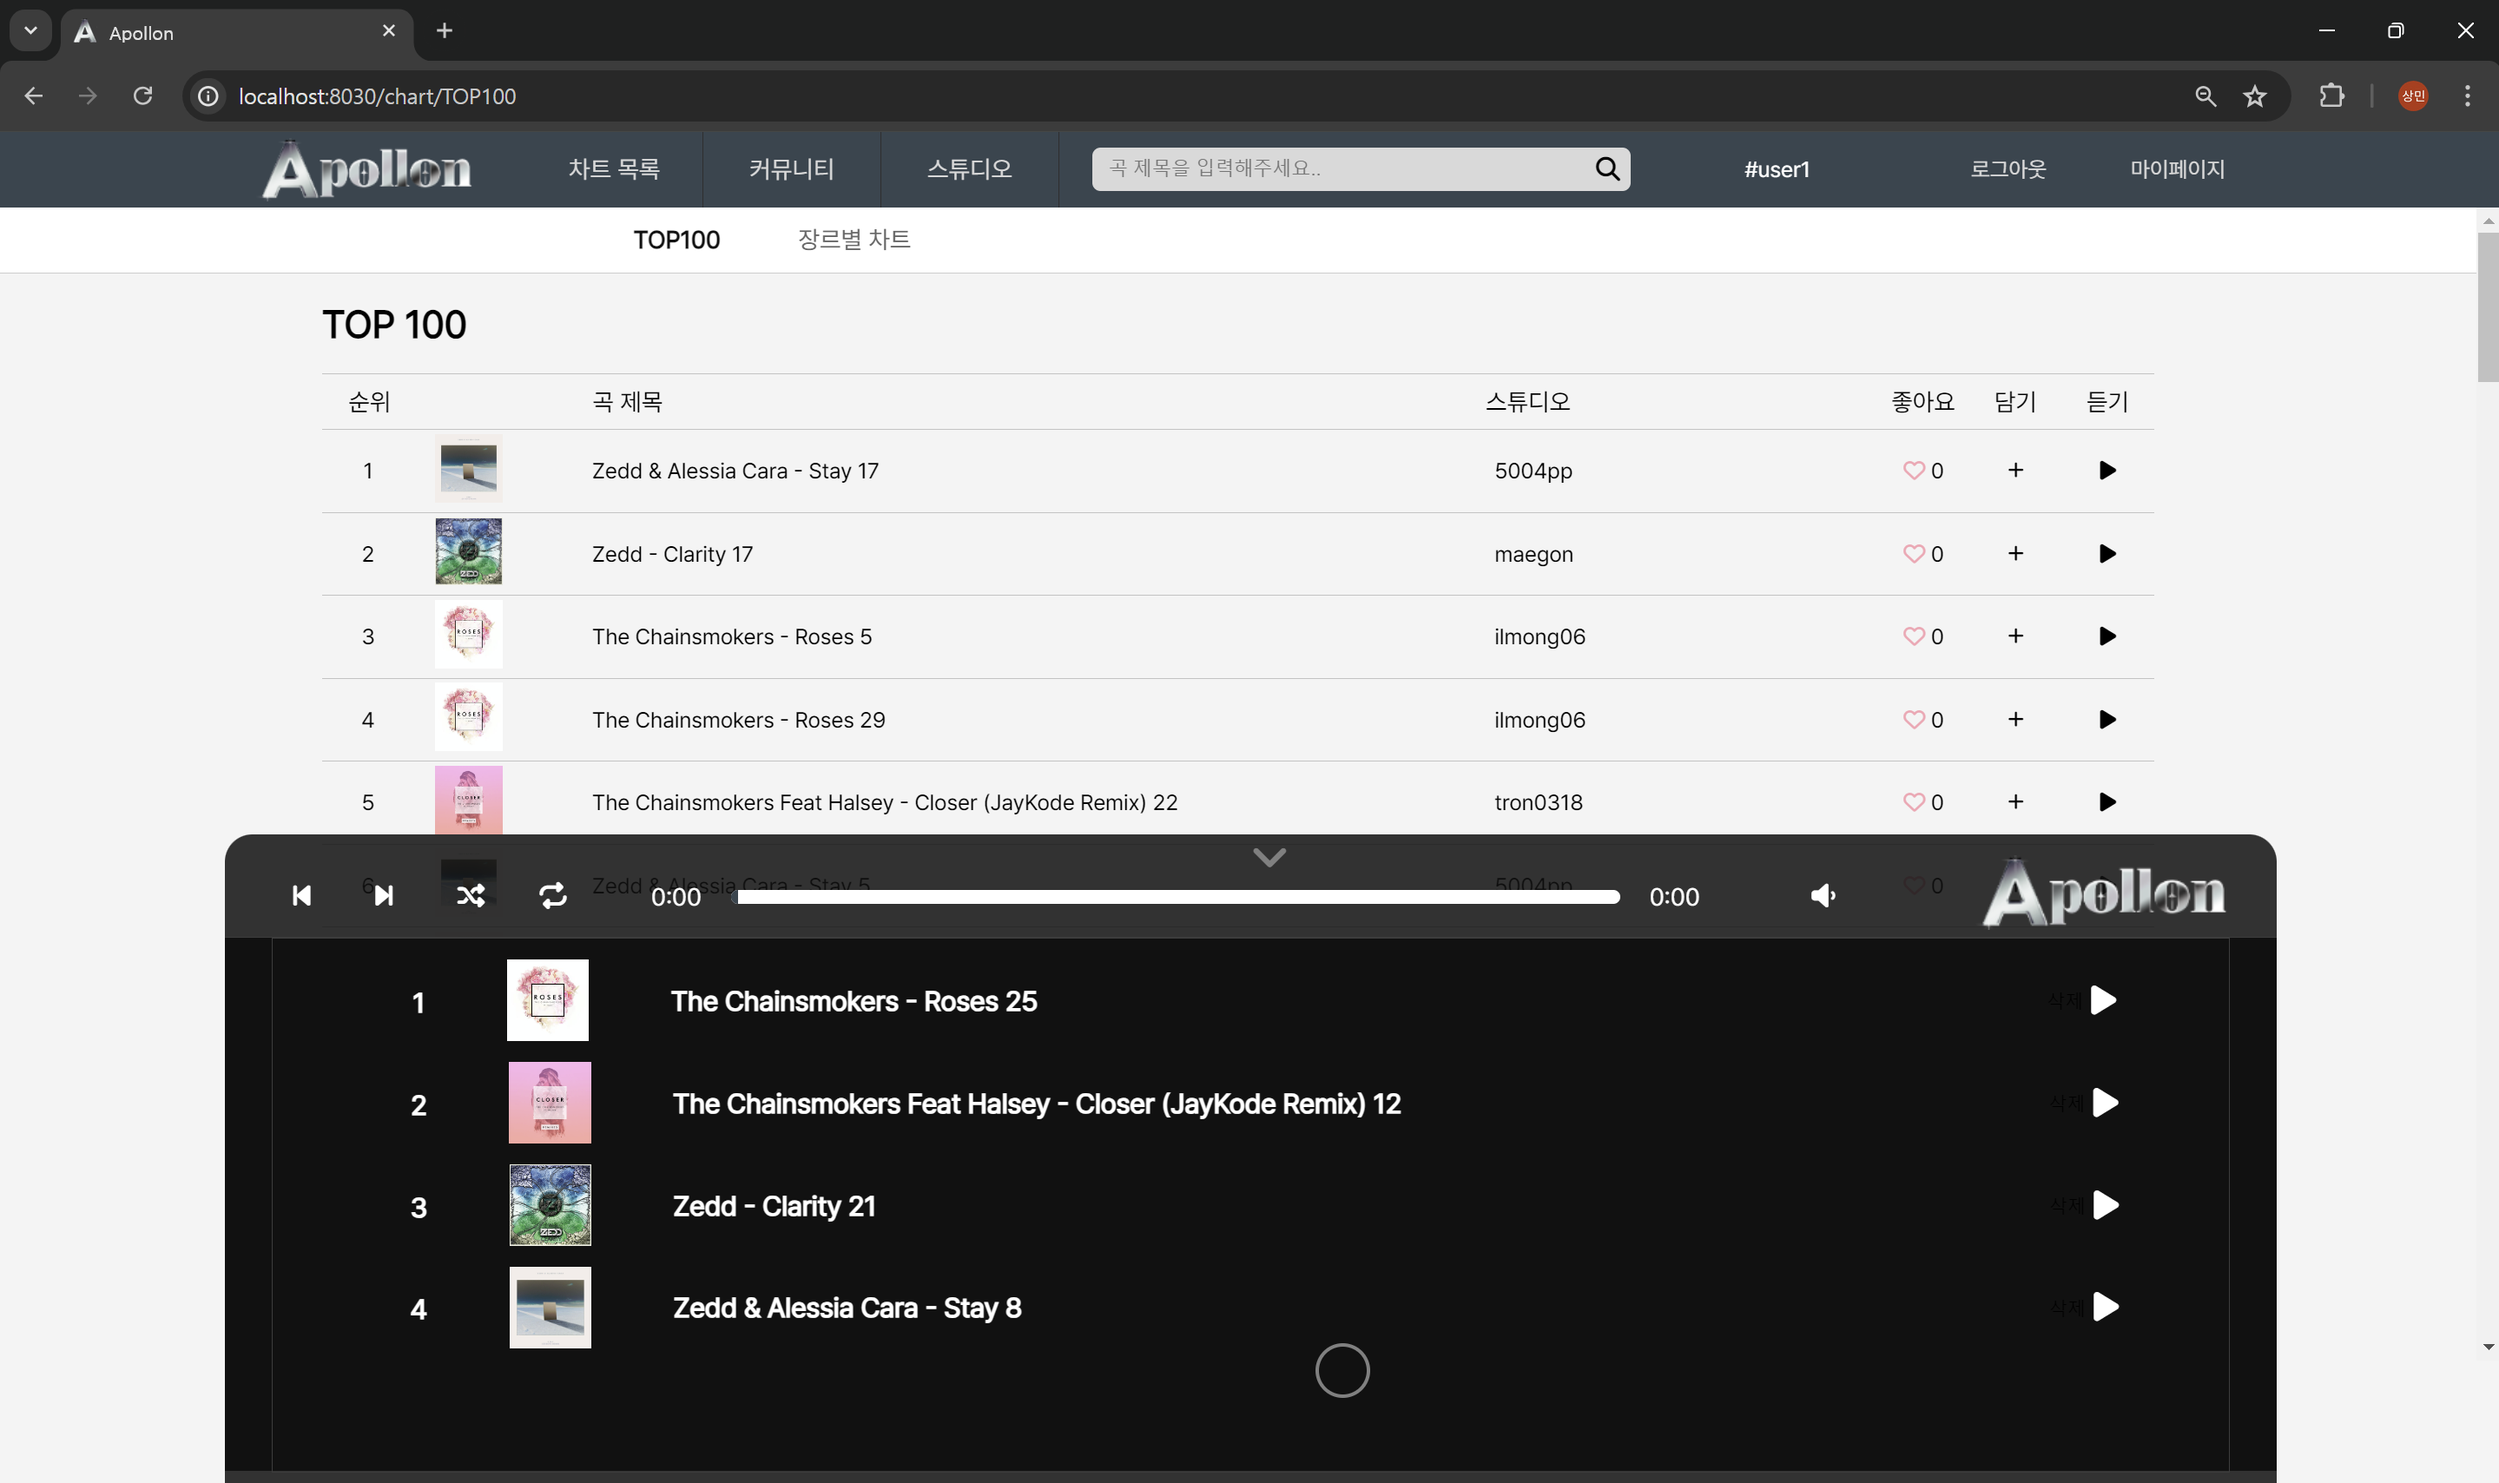
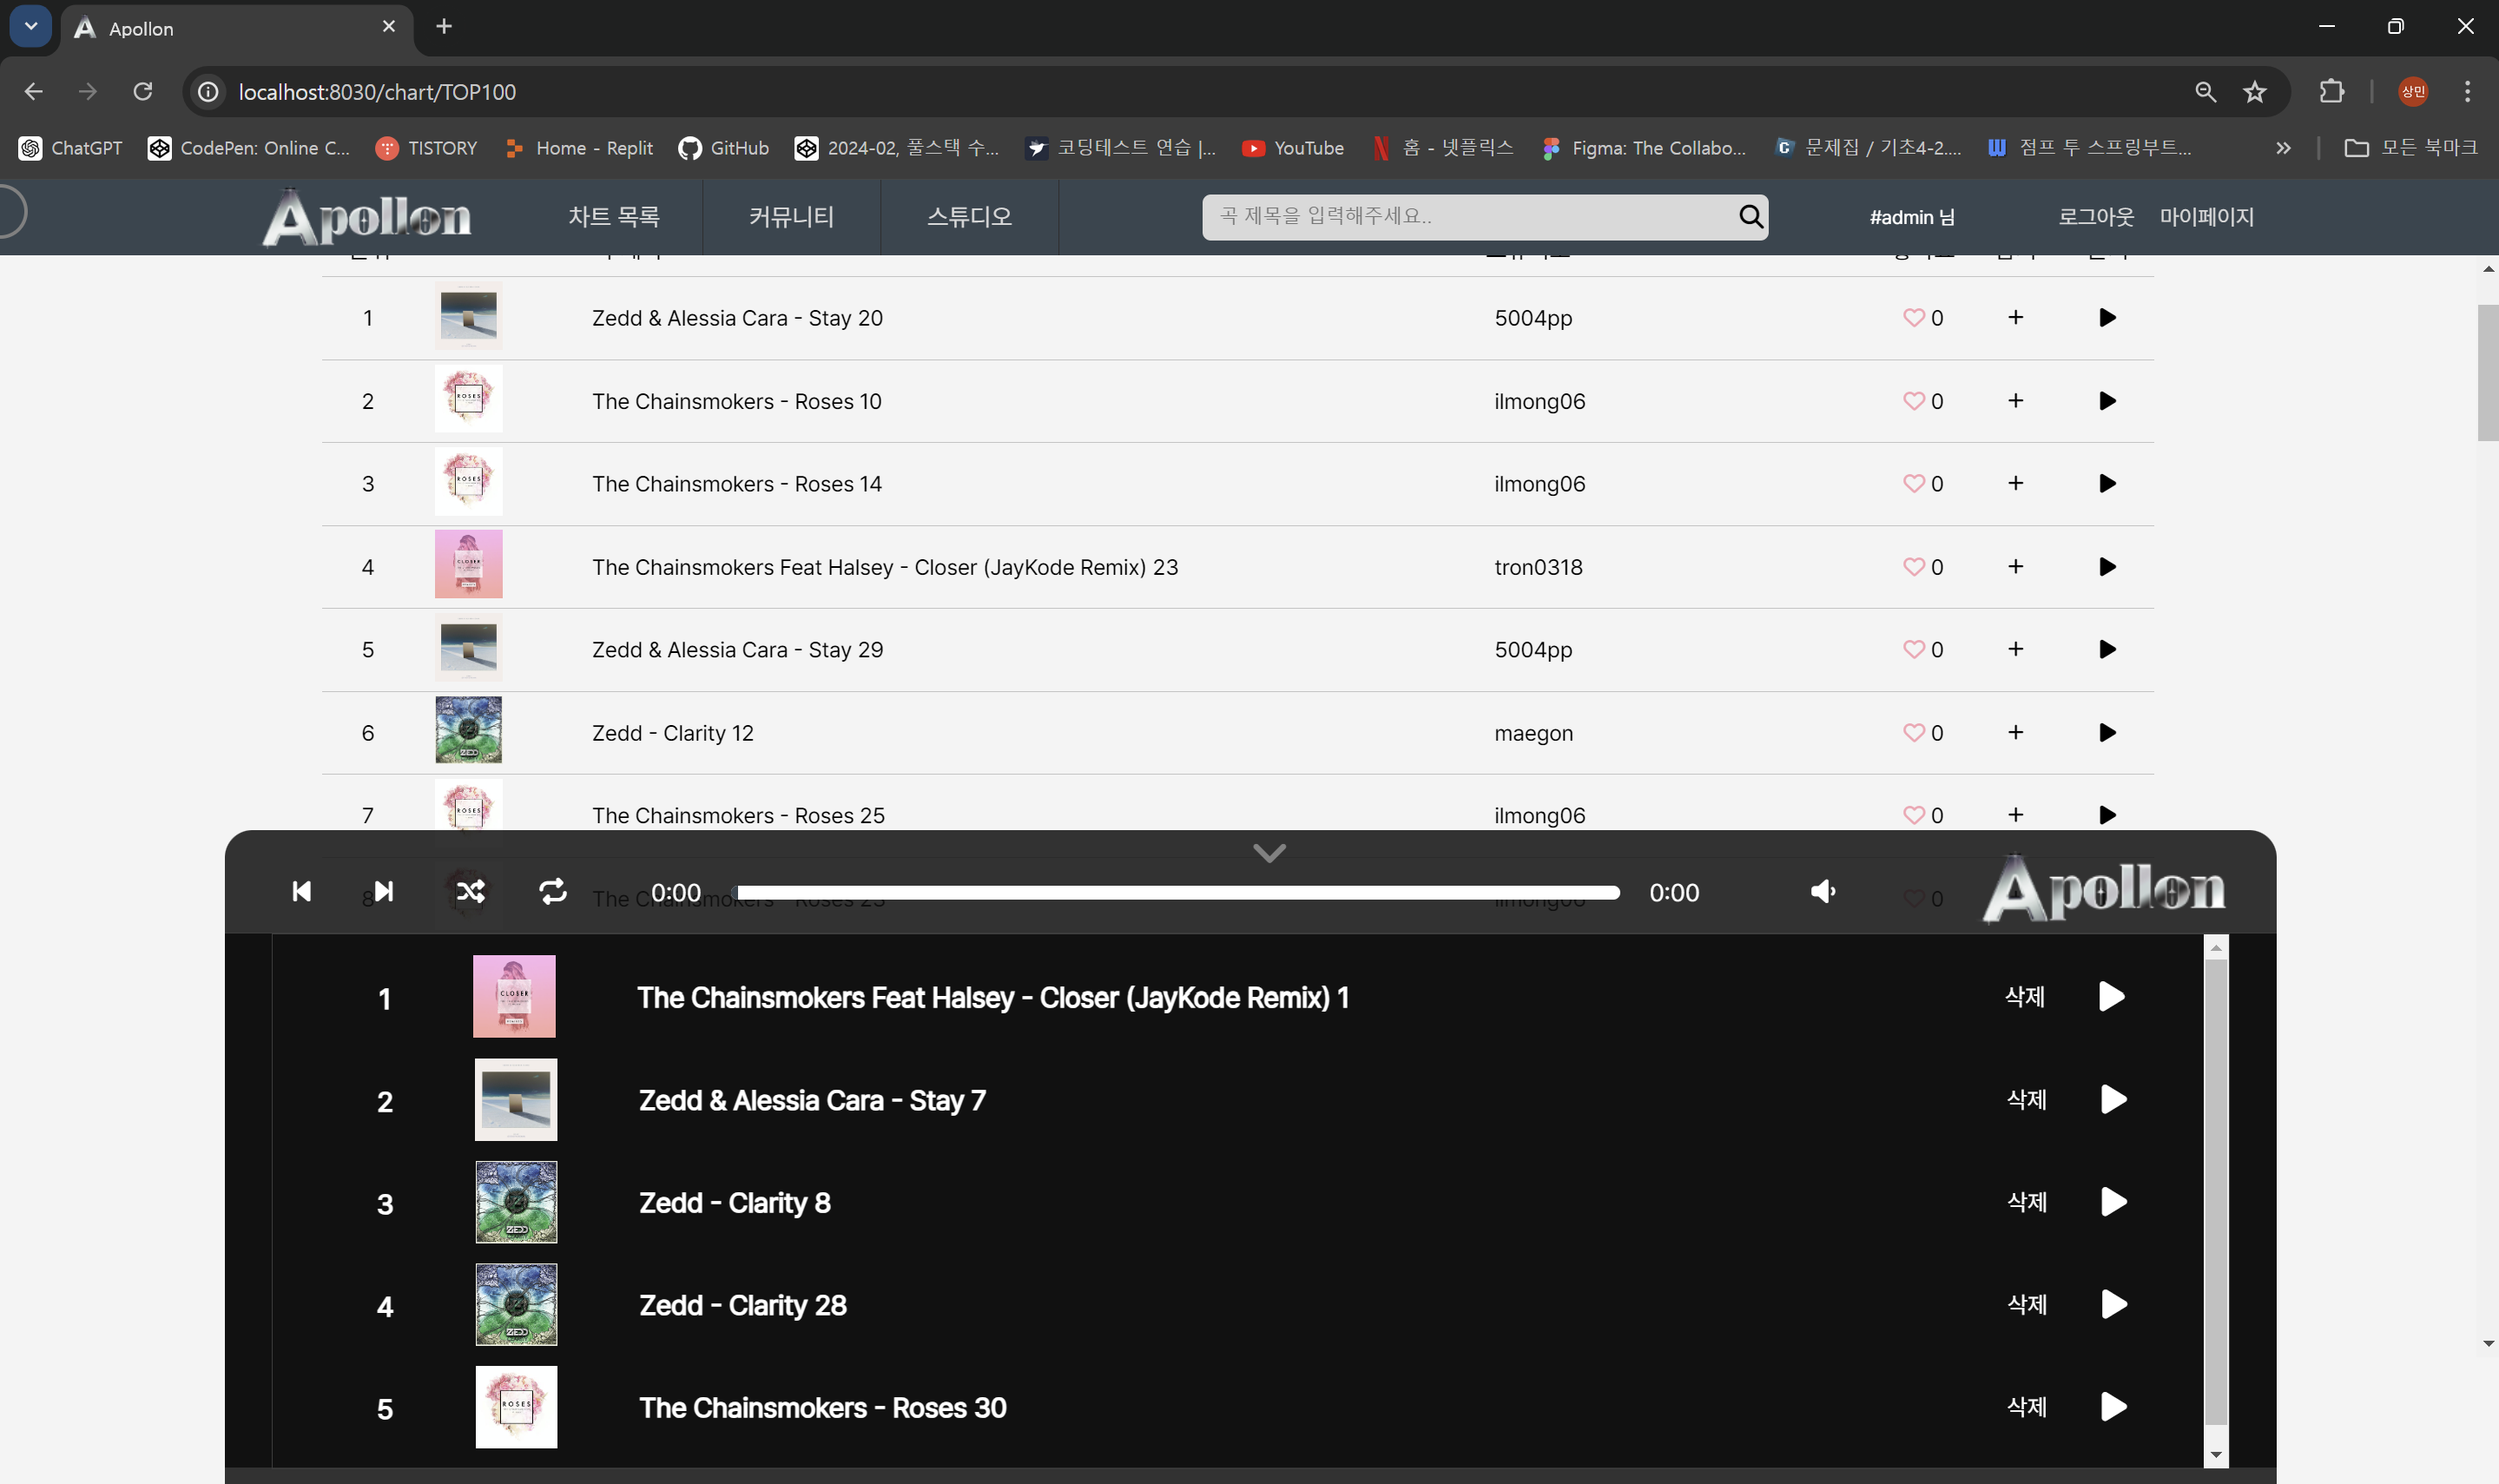
수정 몇가지 (#98)

diff --git a/src/main/resources/templates/comment/comment_detail.html b/src/main/resources/templates/comment/comment_detail.html
@@ -2,14 +2,14 @@
     <div layout:fragment="content" class="box">
         <div class="top-section">
             <div class="welcome-box">
-                <span th:text="'#' + ${studio.member.username} + ' 님의 스튜디오에 오신 것을 환영합니다.'"></span>
+                <span th:text="'#' + ${studio.member.nickname} + ' 님의 스튜디오에 오신 것을 환영합니다.'"></span>
                 <a th:href="@{|/studio/${studio.member.username}/changeActive|}"
                    th:if="${#authorization.expression('isAuthenticated()') and #authentication.principal.username == 'admin' and studio.active == 1}">스튜디오 차단</a>
                 <a th:href="@{|/studio/${studio.member.username}/changeActive|}"
                    th:if="${#authorization.expression('isAuthenticated()') and #authentication.principal.username == 'admin' and studio.active == 0}">스튜디오  활성화</a>
-            </div>
-            <div class="myHome-btn">
-                <a th:if="${#authentication.principal.username != studio.member.username}" th:href="@{|/studio/${#authentication.principal.username}|}">내 스튜디오로 가기</a>
+                <div class="myHome-btn">
+                    <a th:if="${#authentication.principal.username != studio.member.username}" th:href="@{|/studio/${#authentication.principal.username}|}">내 스튜디오로 가기</a>
+                </div>
             </div>
             <div class="search-box">
                 <form th:action="@{/studio/search}" method="get">

diff --git a/src/main/resources/templates/comment/comment_form.html b/src/main/resources/templates/comment/comment_form.html
@@ -2,14 +2,14 @@
     <div layout:fragment="content" class="box">
         <div class="top-section">
             <div class="welcome-box">
-                <span th:text="'#' + ${studio.member.username} + ' 님의 스튜디오에 오신 것을 환영합니다.'"></span>
+                <span th:text="'#' + ${studio.member.nickname} + ' 님의 스튜디오에 오신 것을 환영합니다.'"></span>
                 <a th:href="@{|/studio/${studio.member.username}/changeActive|}"
                    th:if="${#authorization.expression('isAuthenticated()') and #authentication.principal.username == 'admin' and studio.active == 1}">스튜디오 차단</a>
                 <a th:href="@{|/studio/${studio.member.username}/changeActive|}"
                    th:if="${#authorization.expression('isAuthenticated()') and #authentication.principal.username == 'admin' and studio.active == 0}">스튜디오  활성화</a>
-            </div>
-            <div class="myHome-btn">
-                <a th:if="${#authentication.principal.username != studio.member.username}" th:href="@{|/studio/${#authentication.principal.username}|}">내 스튜디오로 가기</a>
+                <div class="myHome-btn">
+                    <a th:if="${#authentication.principal.username != studio.member.username}" th:href="@{|/studio/${#authentication.principal.username}|}">내 스튜디오로 가기</a>
+                </div>
             </div>
             <div class="search-box">
                 <form th:action="@{/studio/search}" method="get">

diff --git a/src/main/resources/templates/music/musicDetail.html b/src/main/resources/templates/music/musicDetail.html
@@ -7,9 +7,9 @@
          th:if="${#authorization.expression('isAuthenticated()') and #authentication.principal.username == 'admin' and studio.active == 1}">스튜디오 차단</a>
       <a th:href="@{|/studio/${studio.member.username}/changeActive|}"
          th:if="${#authorization.expression('isAuthenticated()') and #authentication.principal.username == 'admin' and studio.active == 0}">스튜디오  활성화</a>
-    </div>
-    <div class="myHome-btn">
-      <a th:if="${#authentication.principal.username != studio.member.username}" th:href="@{|/studio/${#authentication.principal.username}|}">내 스튜디오로 가기</a>
+      <div class="myHome-btn">
+        <a th:if="${#authentication.principal.username != studio.member.username}" th:href="@{|/studio/${#authentication.principal.username}|}">내 스튜디오로 가기</a>
+      </div>
     </div>
     <div class="search-box">
       <form th:action="@{/studio/search}" method="POST">
@@ -133,7 +133,7 @@
             <span class="comment-title">제목</span>
           </li>
         </ul>
-        <ul>
+        <ul style="padding-left: 20px;">
           <li th:each="comment, iterStat : ${commentList}" class="comment-detail">
             <div class="form-check">
               <input class="form-check-input" type="checkbox" name="commentIds" th:value="${comment.id}" id="flexCheckDefault2" th:id="'flexCheckDefault2' + ${iterStat.index}">

diff --git a/src/main/resources/static/footerStyle.css b/src/main/resources/static/footerStyle.css
@@ -400,6 +400,7 @@ input[type="range"] {
     font-size: 24px;
     height: 390px;
     background-color: #111111;
+    z-index: 999;
 }
 
 .show_myPlayList_list {
@@ -410,6 +411,7 @@ input[type="range"] {
     height: 360px;
     list-style: none;
     overflow-y: auto;
+    z-index: 999;
 }
 
 .show_myPlayList_list > ul > li > .myPlayList_musicTitle {
@@ -435,11 +437,13 @@ input[type="range"] {
     width: 60px;
     height: 60px;
     margin-right: 60px;
+    z-index: 999;
 }
 
 .show_myPlayList_list > ul > li > .myPlayList_musicTitle > .myPlayList-thumbImg > img {
     width: 100%;
     height: 100%;
+    z-index: 999;
 }
 
 .show_myPlayList_list > ul > li > .myPlayList_musicTitle > .myPlayList-musicTi {
@@ -477,4 +481,5 @@ input[type="range"] {
     box-sizing: border-box;
     text-align: center; /* 가운데 정렬 추가 */
     pointer-events: none; /* 막대그래프 영역을 클릭이나 터치 이벤트를 통과시킴 */
+    z-index: 0;
 }

diff --git a/src/main/resources/templates/studio/studio_detail.html b/src/main/resources/templates/studio/studio_detail.html
@@ -223,7 +223,7 @@
 
     // 스튜디오 활성화 물어보기
     function confirmAction2() {
-        if (confirm('해당 스튜디오를 차단 하시겠습니까?')) {
+        if (confirm('해당 스튜디오를 활성화 하시겠습니까?')) {
             return true;  // 확인을 누르면 링크로 이동
         } else {
             return false; // 취소를 누르면 아무런 동작도 하지 않음

diff --git a/src/main/resources/static/headerStyle.css b/src/main/resources/static/headerStyle.css
@@ -161,14 +161,15 @@ button {
 .header_profile_box {
     display: flex;
     align-items: center;
-    width: 292px;
+    width: 350px;
     height: 100%;
 }
 
 /* 로그인/회원가입, 로그아웃/마이페이지 */
 .header_userName {
-    width: 120px;
+    width: 200px;
     color: #fff;
+    font-size: 14px;
 }
 
 .header_profile_box > .header_member {

diff --git a/README.md b/README.md
@@ -58,6 +58,14 @@
 - Post (커뮤니티)
 - PlayList (플레이리스트)
 
+<br>
+
+| E-R 다이어그램                                                                |
+|--------------------------------------------------------------------------|
+| <img src="src/main/resources/static/images/capture/apollon_ERD_최종찐.png"> |
+
+<br>
+
 
 ## 👨👩👧👦 팀원 구성
 
@@ -365,7 +373,7 @@
 - TOP100과 장르별 차트를 보여줍니다.
 - TOP100은 음악의 좋아요(추천) 수가 많은 순서대로 나열됩니다.
 - 장르별 차트는 음악의 장르별로 등록된 음악이 모두 나열됩니다.
-- 로그인을 하지 않았을 때 TOP100에서 음악을 플레이리스트에 담을 수 없습니다.
+- 로그인을 하지 않았을 때 TOP100에서 음악을 플레이리스트에 담을 수 없으며, 음악 추천도 불가능합니다.
 - 로그인을 하였을 때 TOP100에서 음악을 플레이리스트에 담을 수 있습니다.
 - 차트별 제목 또는 스튜디오를 클릭하면 해당 곡의 정보를 보여주는 스튜디오 페이지로 이동합니다.
 - 듣기 버튼을 통해 회원 비회원 구분없이 1분 미리 듣기가 가능합니다.
@@ -378,11 +386,24 @@
 
 <br>
 
+### [전체 음악 검색]
+- 상단 헤더바를 통해 전체 노래를 검색할 수 있습니다.
+- 노래 검색은 곡 제목을 통해서만 가능하며 제목의 일부만 검색해도 해당 문자가 포함된 모든 결과를 화면에 보여줍니다.
+- 차트목록과 마찬가지로 음악 상세 정보와 음악 담기가 가능하지만, 로그인이 되어있지 않았다면 모두 실행할 수 없습니다.
+
+| 차트목록                                                              |
+|-------------------------------------------------------------------|
+| <img src="src/main/resources/static/images/capture/음악 검색.png">    |
+
+<br>
+
 ### [플레이리스트]
 - 차트목록에서 '담기' 버튼을 통해 개인 플레이리스트에 노래를 저장합니다.
 - 플레이리스트에 순서는 담기 순서대로 위에서 아래로 나열됩니다.
 - 재생 버튼을 통해 음악을 재생할 수 있으며, 이전곡과 다음곡 버튼을 통해 플레이리스트 컨트롤이 가능합니다.
 - 반복 재생 버튼 클릭 시 음악 반복 재생이 가능합니다.
+- 볼륨 버튼을 통해 볼륨 조절이 가능합니다.
+- 실수로 음악을 잘못 담았다면 삭제 버튼을 통해 플레이리스트에서 해당 곡을 제외시킬 수 있습니다.
 
 | 플레이리스트                                                          |
 |-----------------------------------------------------------------|
@@ -487,5 +508,5 @@
 
 ## 🔗Link
 
-[프로젝트 완성 및 시연 영상](https://velog.io/@rladuswl/%ED%94%84%EB%A1%9C%EC%A0%9D%ED%8A%B8-%EC%99%84%EC%84%B1-%EB%B0%8F-%EC%8B%9C%EC%97%B0-%EC%98%81%EC%83%81)
+[프로젝트 완성 및 시연 영상](https://web-app-programmer.tistory.com/194)
 
